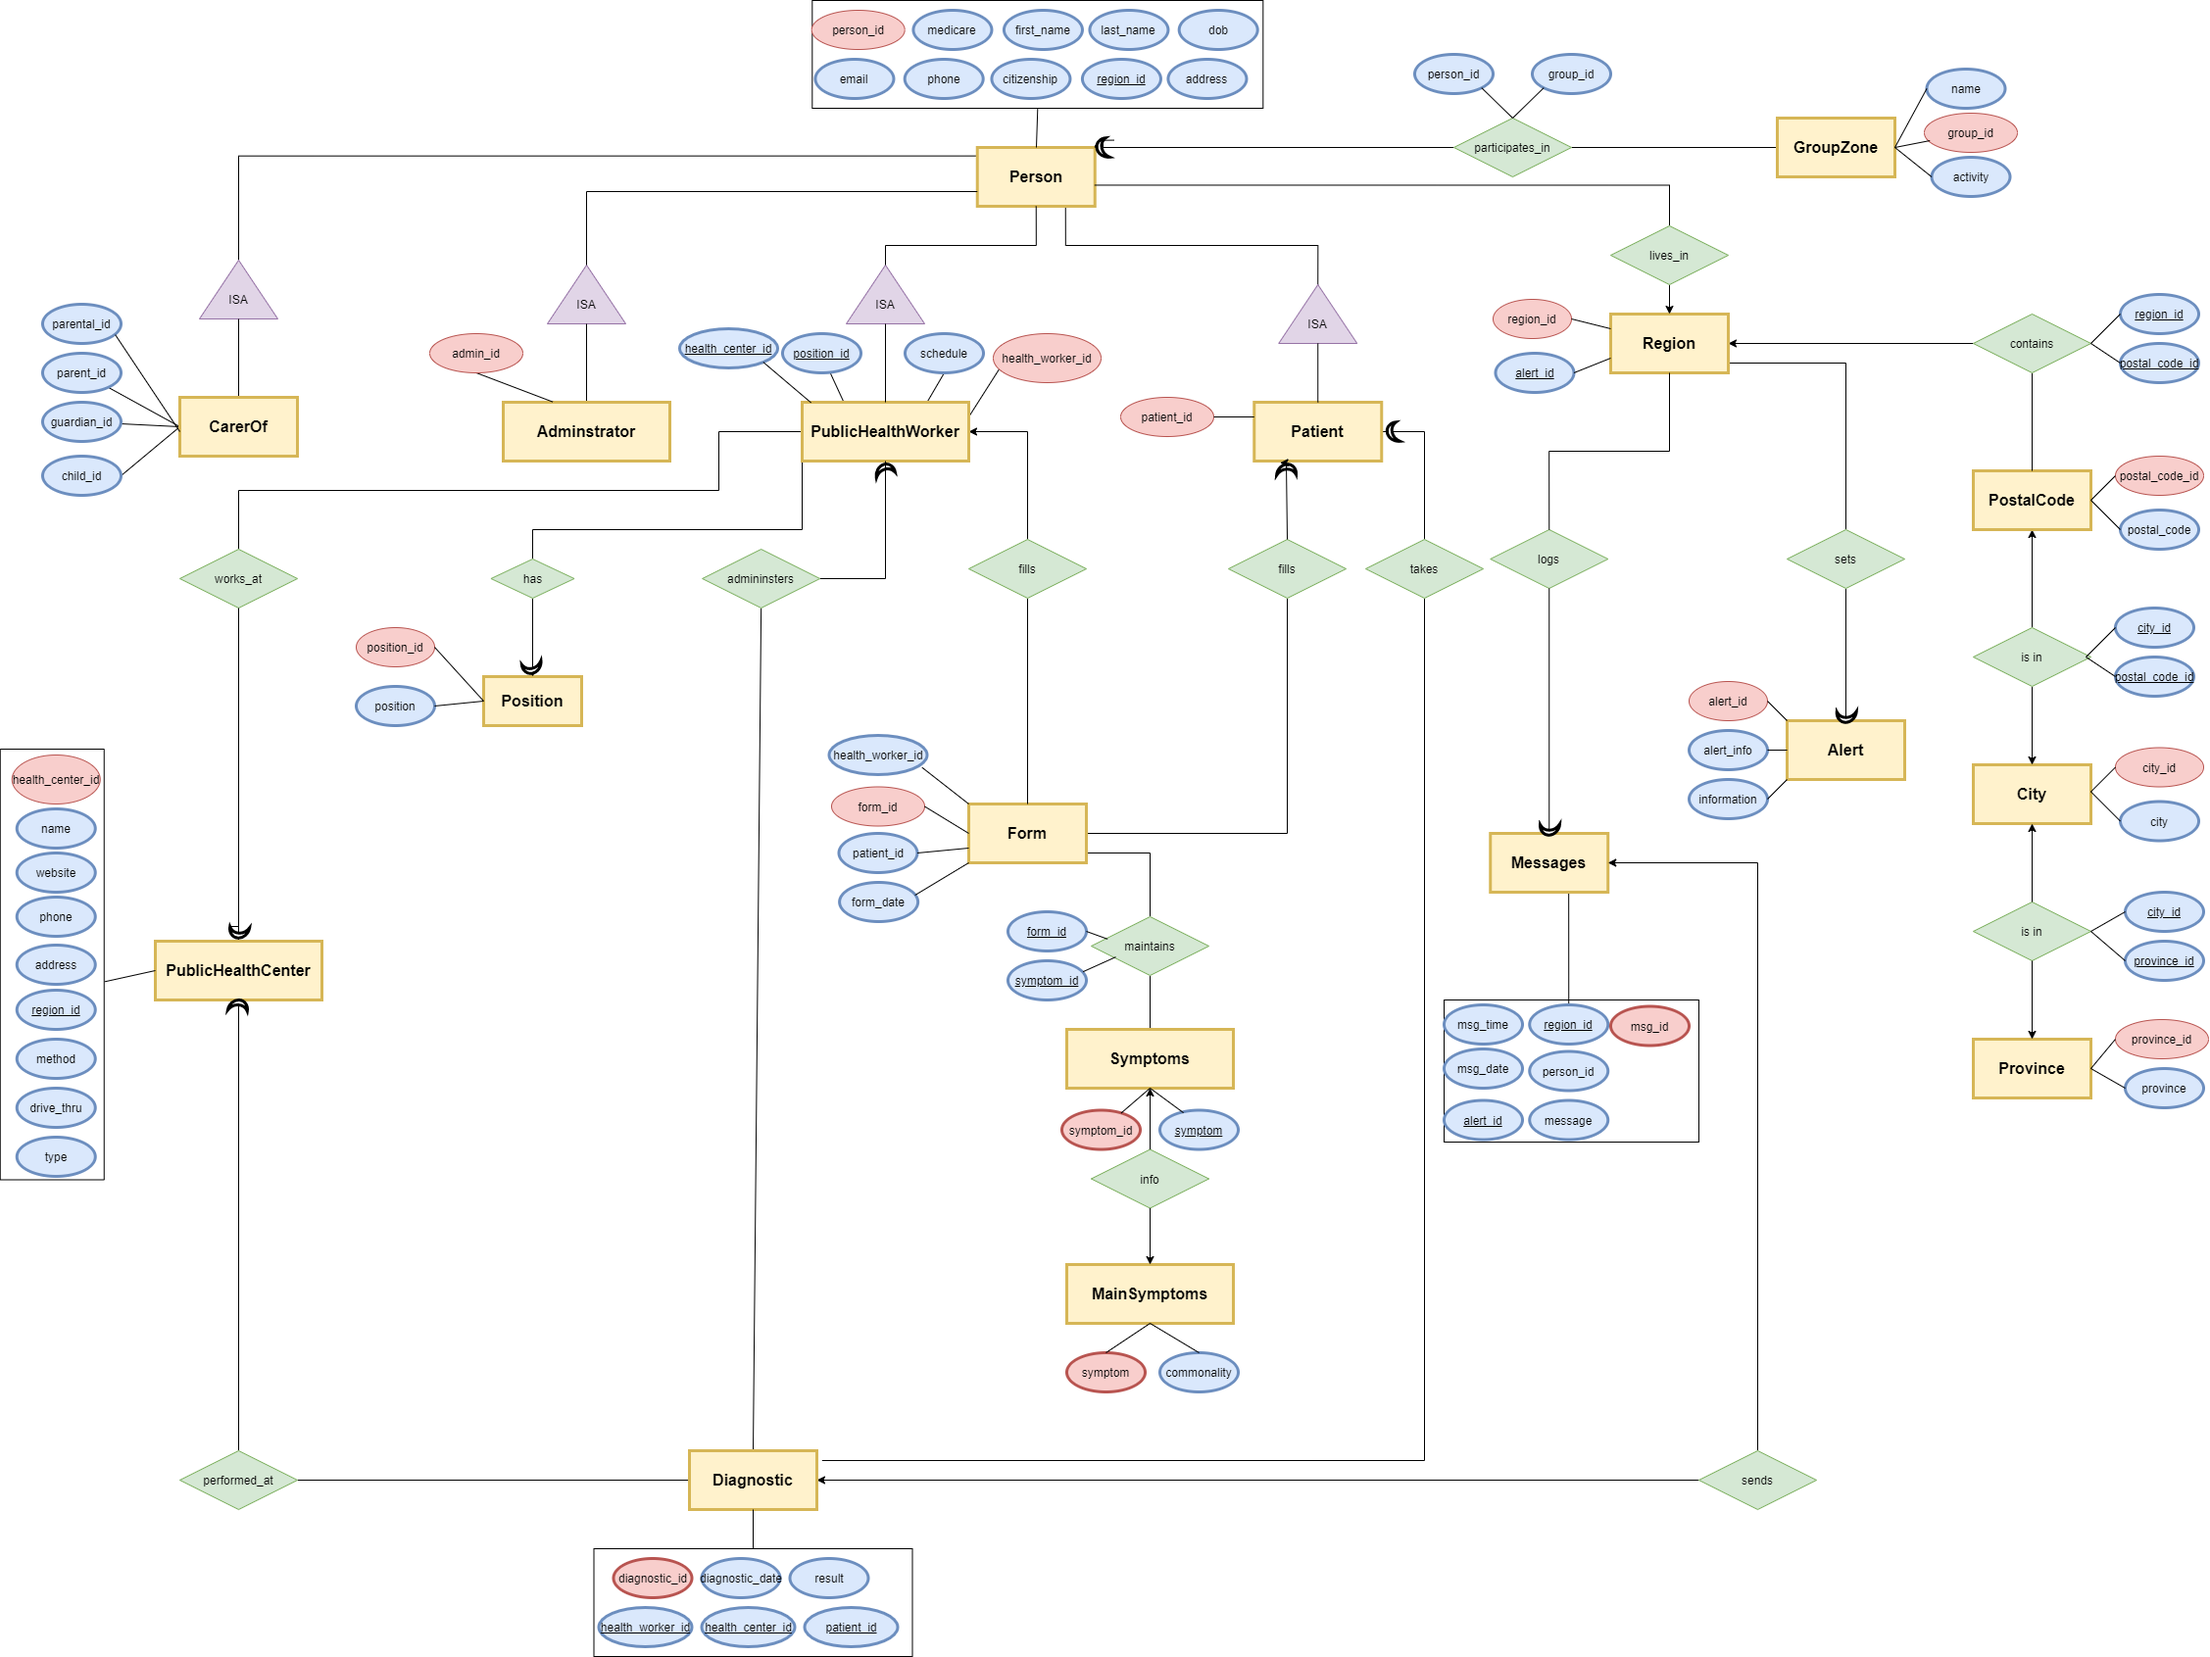
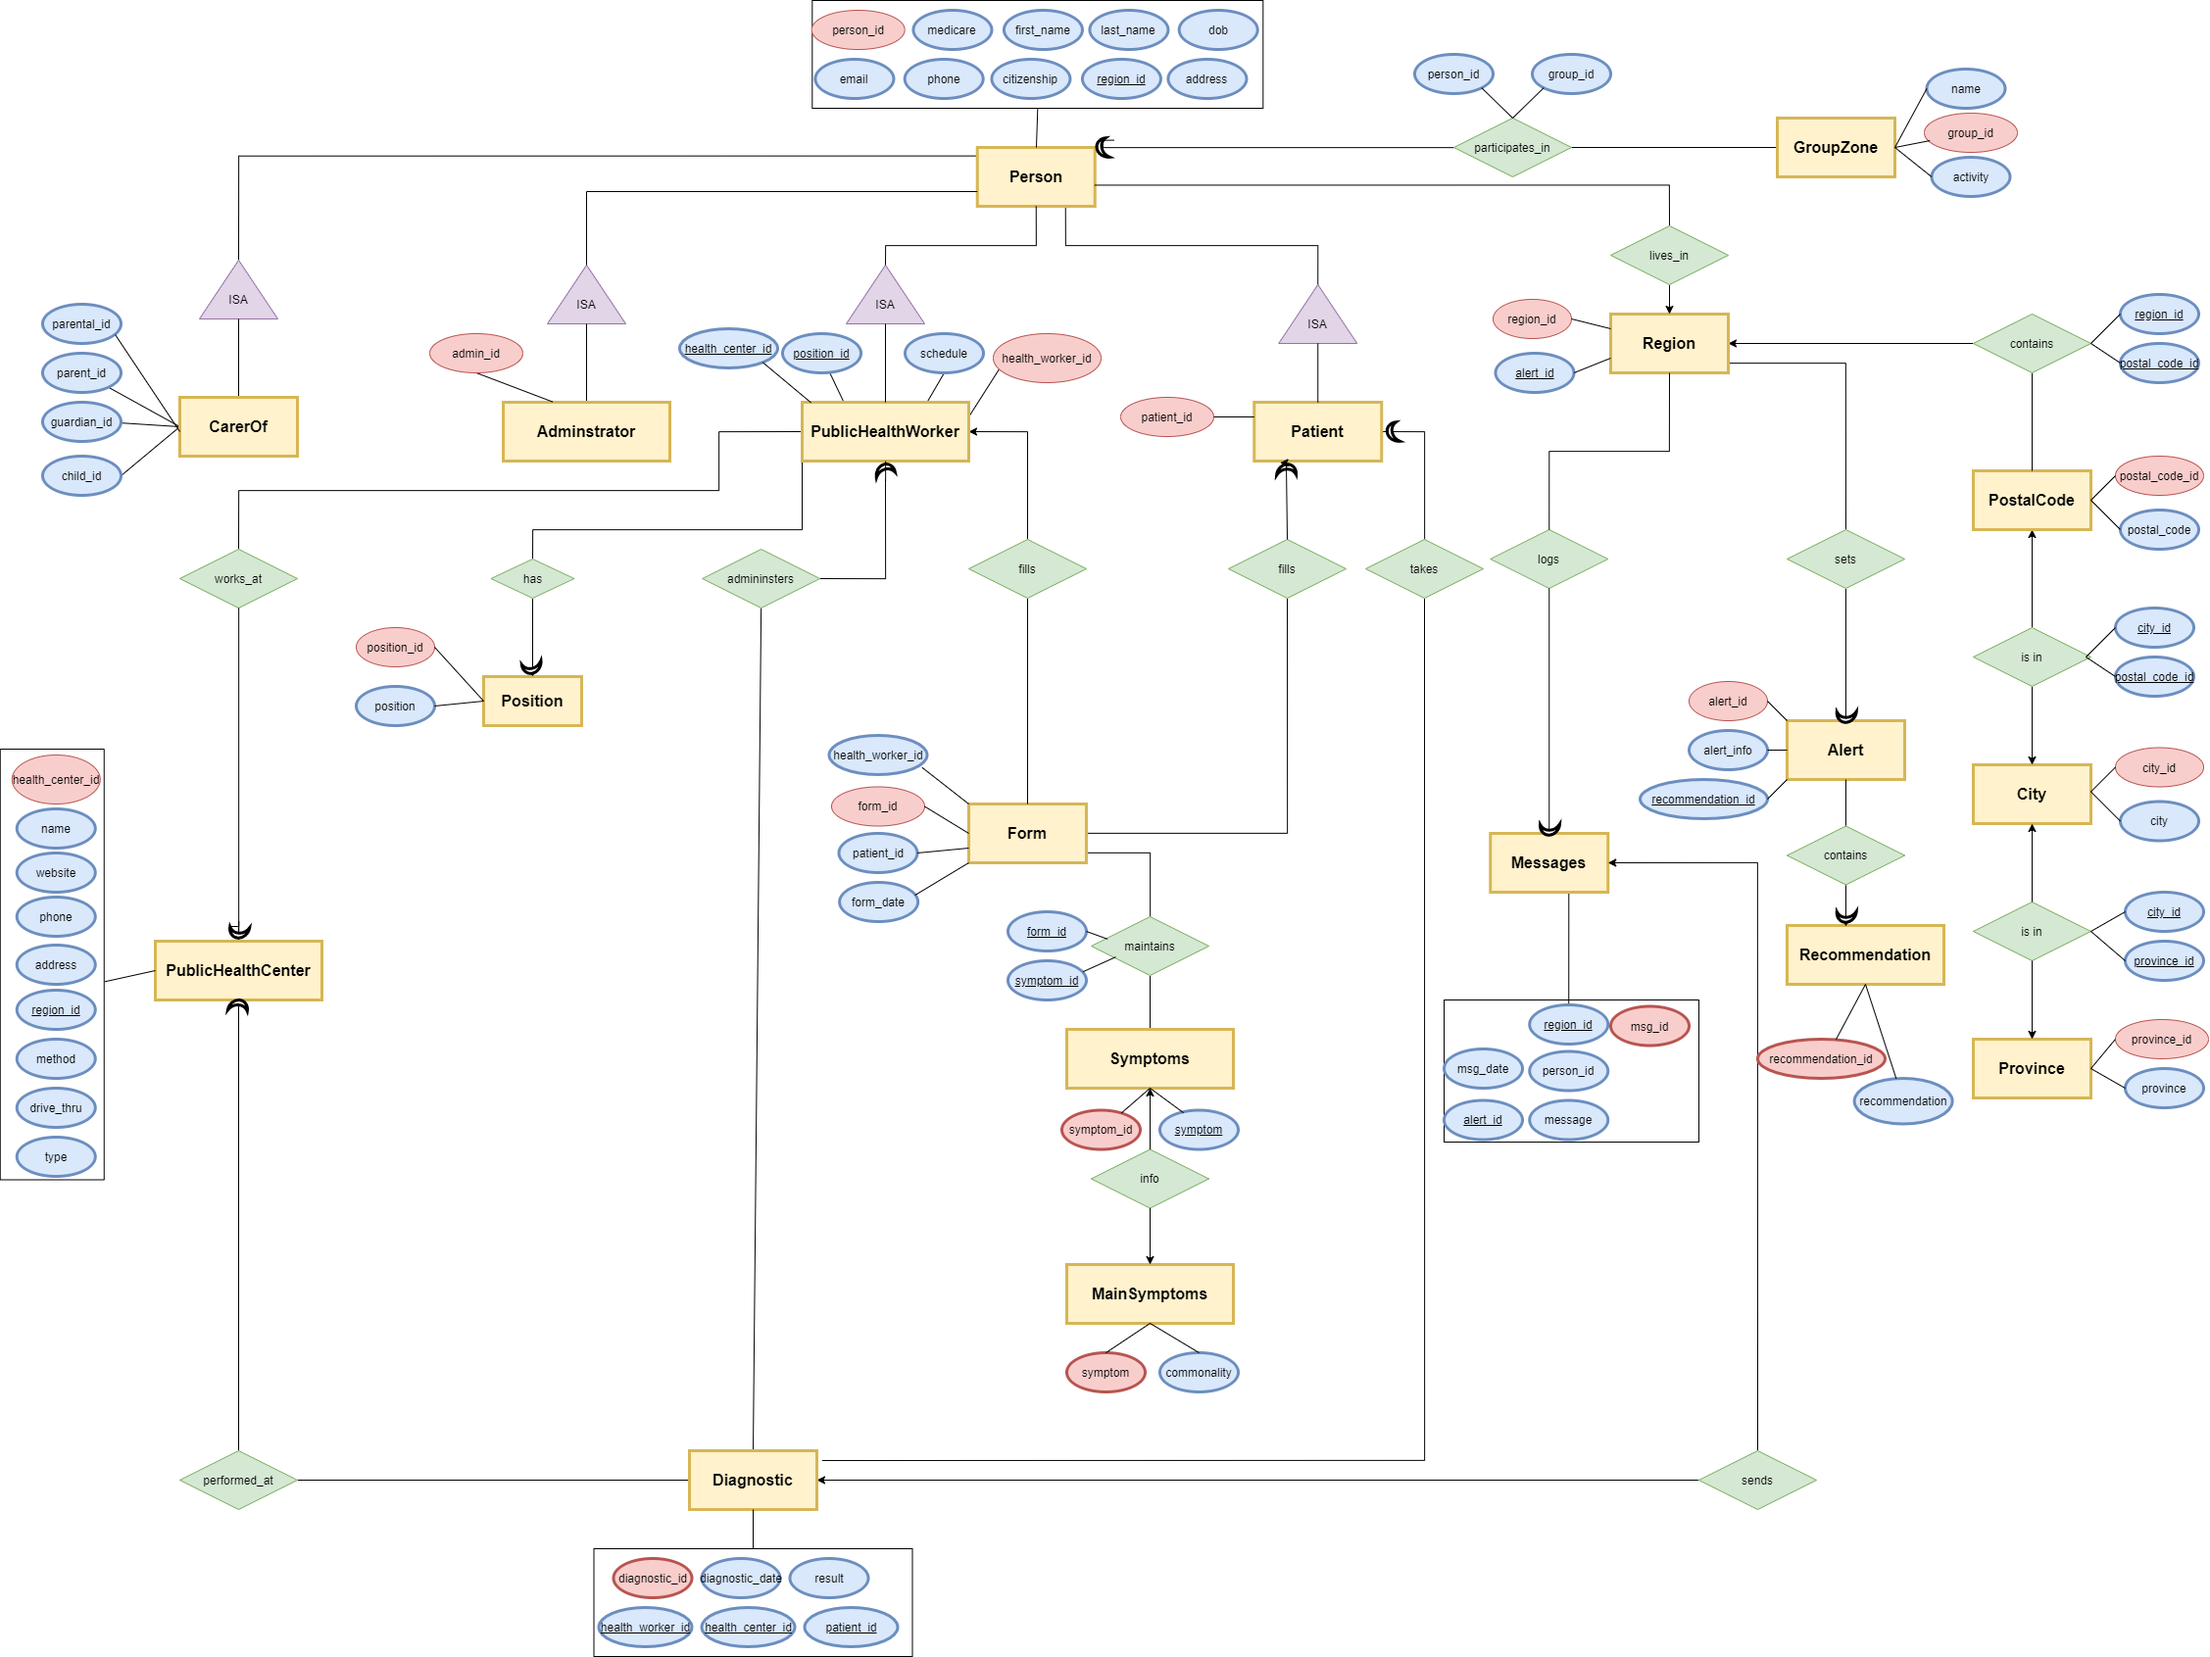
updated ERD

Changed region(s): [[0.7761, 0.492, 0.9002, 0.6765], [0.745, 0.4613, 0.8071, 0.492], [0.6519, 0.5843, 0.6829, 0.6458]]

diff --git a/README.md b/README.md
@@ -157,7 +157,7 @@ We did not show *referential integrity* on the ERD when it comes to inherited en
 | **Symptoms**(<ins>symptom_id</ins>, symptom)
 | **GroupZonePivot**(`person_id`,`group_id`)
 | **GroupZone**(<ins>group_id<ins>, activity, name)|
-| **Alert**(<ins>alert_id<ins>, recommendation, alert_info)|
+| **Alert**(<ins>alert_id<ins>, `recommendation_id`, alert_info)|
 | **Messages**(<ins>msg_id<ins> `region_id`, msg_date, `alert_id`, `person_id`)|
 | **Recommendation**(<ins>recommendation_id<ins>, recommendation)|
 
@@ -179,8 +179,8 @@ The non-trivial functional dependencies are : <br>
 **symptom**                     &#8594; `commonality`                                                                                  <br>
 **symptom_id**                  &#8594;  symptom                                                                                       <br>
 **group_id**                    &#8594;  activity, name                                                                                <br>
-**alert_id**                    &#8594;  recommendation_id, alert_info                                                                 <br>
-**msg_id**                      &#8594;  msg_date, `region_id`, `alert_id`, `person_id`                                      <br>
+**alert_id**                    &#8594;  `recommendation_id`, alert_info                                                               <br>
+**msg_id**                      &#8594;  msg_date, `region_id`, `alert_id`, `person_id`                                                <br>
 **recommendation_id**           &#8594;  recommendation                                                                                <br>
 
 
